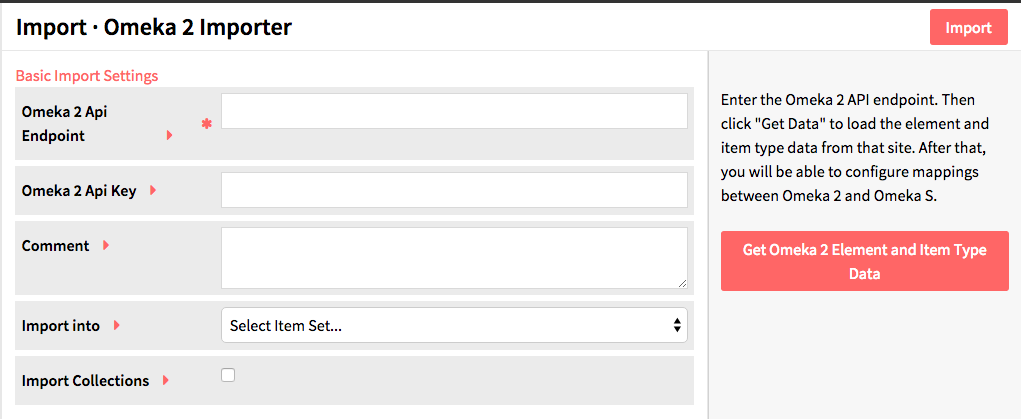
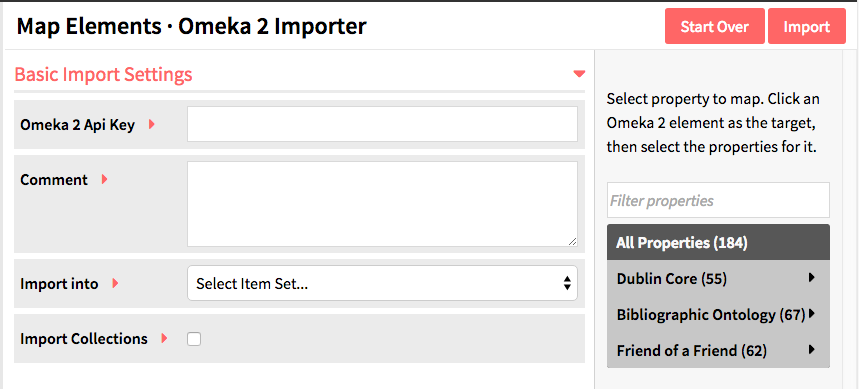
Update Omeka2Importer
To reflect current develop branch of that module

diff --git a/modules/omeka2importer.md b/modules/omeka2importer.md
@@ -7,28 +7,28 @@ For information on installing, see the instructions on the general modules page.
 
 Once installed, the Omeka 2 Importer module should appear toward the bottom of the left navigation menu on the main admin dashboard. When selected, there are sub-menu items for *Import* and *Past Imports*
 
-![Omeka 2 Importer menu options Import and Past Imports](../modules/modulesfiles/o2i_menu.png)
+![Omeka 2 Importer menu options Import and Past Imports](go2i_menu.png)
 
 # Import
 From the Import tab you can start new imports. 
 
 **Note** You must have API enabled on the source Omeka installation for the importer to work.
 
-Begin with the basic form:
-* *Omeka 2 Api Endpoint* (required): Enter the site URL for the API you wish to access. Make sure you enter http:// at the start of the link, otherwise the importer will not be able to access the items at that site.  
+On the first page of the importer, enter the *Omeka 2 Api Endpoint* - the site URL for the API you wish to access (it should end with api). Make sure you enter the full url, beginning with http, otherwise the importer will not be able to access the items at that site. Click *next*.
+
+If you have entered a valid API endpoint, the next page will load with no issue. If you have entered an invalid endpoint, the module will display error messages “Warning: Invalid argument”.
+
+On the second page of the importer there is a block of basic import settings and a table which allows you to map specific Omeka 2 elements to Omeka S properties.
+
+**Basic Import Settings**
 * *Omeka 2 Api Key*: This field can either be blank or filled, depending on whether you have an API key for the site you are attempting to import data from.  
 * *Comment*: You can add a comment such as “Jane Doe’s API, no key” to help identify the specific import when viewing previous imports.  
 * *Import Into*: This option allows you to select a specific item set in which to import the items.   
 * *Import Collections*: Check this box if you wish to import the collections from the Omeka 2 site to the Omeka S site.
 
-Once you have entered this information, click the large button to the right labelled *Get Omeka 2 Element and Item Type Data*. This will fetch specific item type data from your installation and allow you to map elements.
-
 ![Basic options for importing Omeka2](../modules/modulesfiles/o2i_basic.png)
 
-Once you’ve clicked the button, a series of tables will load allowing you to edit the mapping of elements from your Omeka 2.x site to the Omeka S installation. 
-
 The tables for mapping show the *Omeka 2 Element*, the *Mapped Properties* and a checkbox option to *Import as HTML Media*. There are tables for *Dublin Core*, *Item Type Metadata*, any other element sets in your Omeka 2.x installation, and a table to map Omeka 2 Item Types to Omeka S Resource Classes.
-
 
 ![Some of the mapped elements](../modules/modulesfiles/o2i_importele.png)
 
@@ -52,7 +52,9 @@ When you have finished customizing the mapping, click the *Import* button in the
 # Manage Past Imports
 The past imports section of the module allows you to view previous API imports.
 
-Each import is a row. The table has the following cow
+Each import is a row. The table has the following columns.
+
+![Table of past imports showing header row and one row of a past import.](../modules/modulesfiles/o2i_past.png)
 
 * *Undo*: Check this box if you wish to undo the import. Once you click submit, the status for that specific import will be undone.    
 * *Job ID*: A numerical value assigned to each specific API import. You can also view the job under the Jobs tab on the administrative dashboard.  
